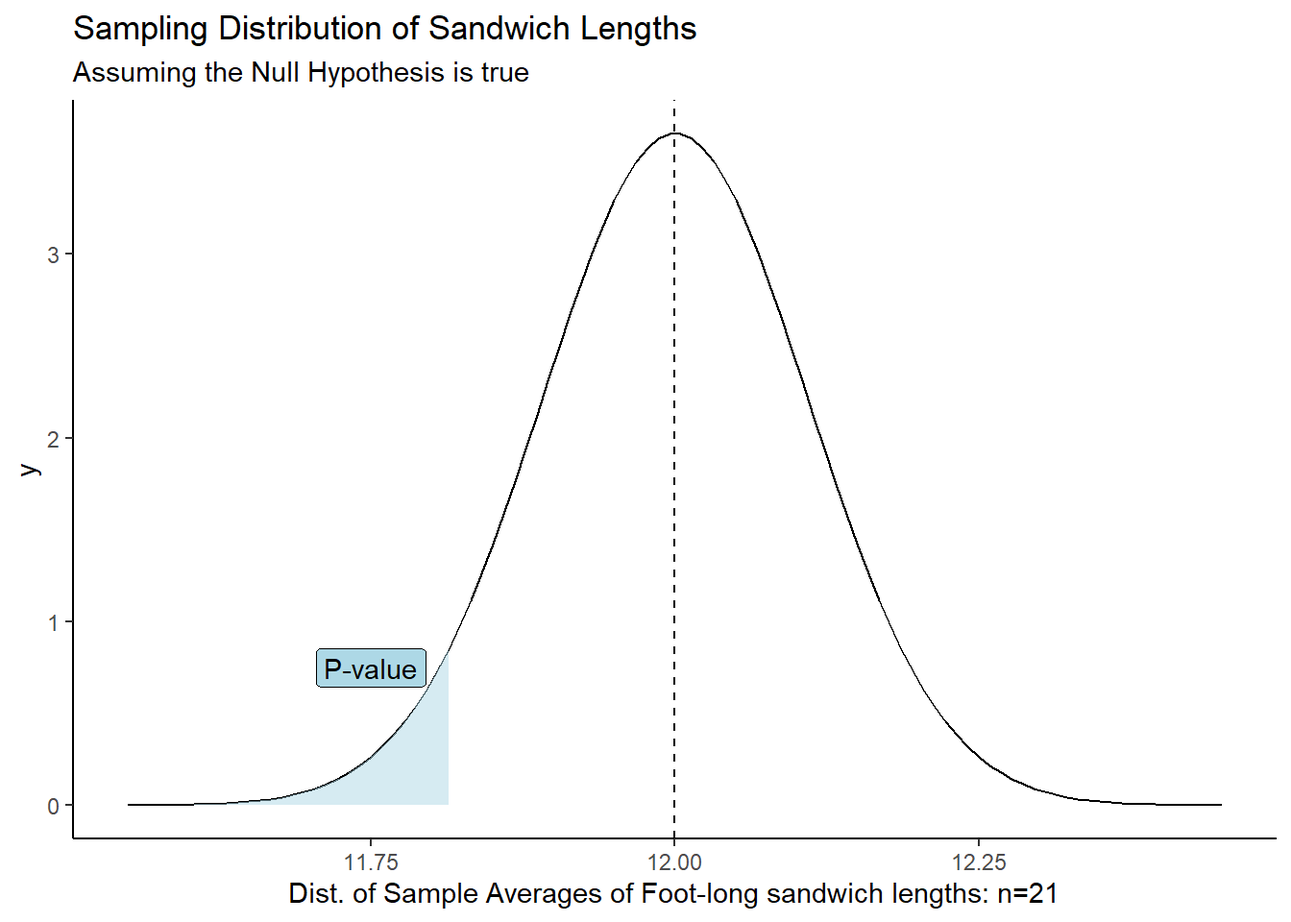
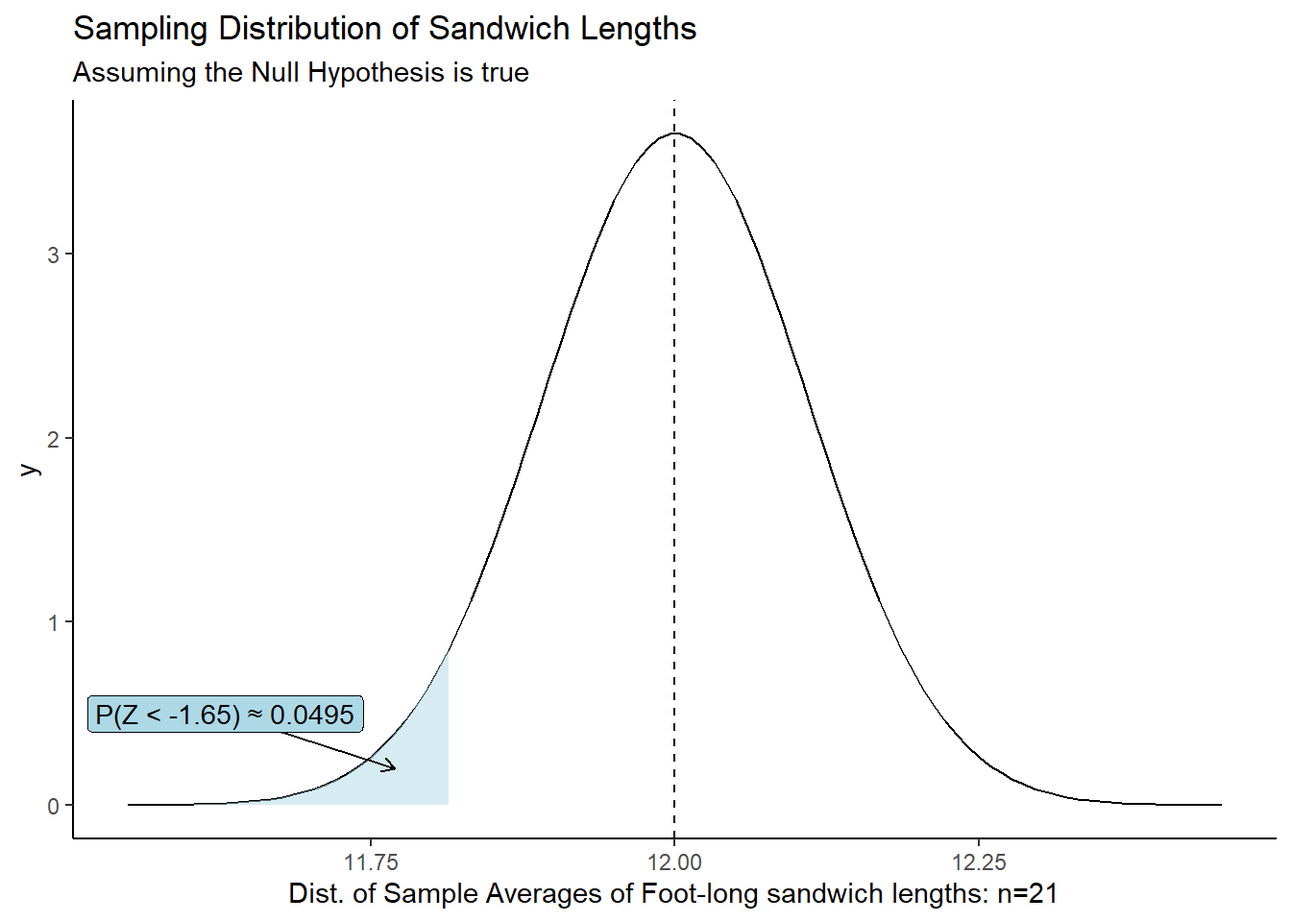
text edits

Changed region(s): [[0.0625, 0.6875, 0.3438, 0.8125]]

diff --git a/docs/8-Inquiry_Based_Learning/Introducing_Hypothesis_Tests.html b/docs/8-Inquiry_Based_Learning/Introducing_Hypothesis_Tests.html
@@ -559,7 +559,7 @@ window.Quarto = {
 <h2 class="anchored" data-anchor-id="the-null-hypothesis-h_0">The Null Hypothesis, <span class="math inline">\(H_0\)</span></h2>
 <p>The <strong>null hypothesis</strong> is the initial claim or assumption about a population parameter. It often represents the status quo or “no effect”.</p>
 <p>For example, we assume that the new medication has <em>no effect</em> until we find enough evidence to prove otherwise.</p>
-<p>We write the null hypothesis as, <span class="math inline">\(H_0\)</span>, and refer to it as “H-Naught” or “H-O”.</p>
+<p>We write the null hypothesis as ‘<span class="math inline">\(H_0\)</span>’, and refer to it as “H-Naught” or “H-O”.</p>
 <p>Many of the statistical tests we cover in this course follow the generic form:</p>
 <p><span class="math display">\[H_0: \text{There is no relationship between }X \text{ and }Y\]</span></p>
 </section>
@@ -568,7 +568,7 @@ window.Quarto = {
 <p>We typically engage in scientific inquiry because we do NOT believe the null hypothesis. For example, we believe that there IS an effect of a new medication.</p>
 <p>The “burden of proof” is on the researcher to prove the null hypothesis wrong. This means that it is the researcher’s responsibility to present enough evidence to contradict the null hypothesis.</p>
 <p>The counter-proposal for the null hypothesis is called the <strong>alternative hypothesis</strong>.</p>
-<p>We write the null hypothesis as, <span class="math inline">\(H_a\)</span>, and refer to it as “H-A”.<br>
+<p>We write the null hypothesis as ‘<span class="math inline">\(H_a\)</span>’, and refer to it as “H-A”.<br>
 The statistical tests we will cover in the rest of the semester follow the generic form:</p>
 <p><span class="math display">\[H_a: \text{There is a relationship between }X \text{ and }Y\]</span></p>
 </section>
@@ -582,7 +582,7 @@ The statistical tests we will cover in the rest of the semester follow the gener
 <p>If the null hypothesis is true, it would be very unlikely, though possible, to observe a scatter plot like the following, just by chance, because of sample-to-sample variation:</p>
 <p><img src="https://github.com/byuistats/Math221D_Course/raw/main/Images/Some_Relationship_Scatterplot.png" class="img-fluid"></p>
 <p><br></p>
-<p>If the null hypothesis is true, it would be ASTRONOMICALLY unlikely, though theoretically possible, to observe a relationship like the following just by chance because of sample-to-sample variation:</p>
+<p>If the null hypothesis is true, it would be ASTRONOMICALLY unlikely, though theoretically possible, to observe a relationship like the following just by chance, because of sample-to-sample variation:</p>
 <p><img src="https://github.com/byuistats/Math221D_Course/raw/main/Images/Strong_Relationship_Scatterplot.png" class="img-fluid"> <br></p>
 </section>
 </section>
@@ -602,13 +602,13 @@ The statistical tests we will cover in the rest of the semester follow the gener
 <iframe src="https://byuistats.github.io/Null_Hypothesis_Simulation_App/" width="700" height="500" style="border:none;">
 </iframe>
 <p>Statistical hypothesis testing is about calculating the <strong>probability</strong> of observing what we actually observed <strong>IF the null hypothesis were true</strong>. If that probability is very small, we can confidently reject the null hypothesis in favor of the alternative.</p>
-<p>Next, we will look at the process of calculating that probability.</p>
+<p>Next, we look at the process of calculating that probability.</p>
 </section>
 <section id="test-statistic" class="level1">
 <h1>Test Statistic</h1>
 <p>To calculate the probability of observing what we observed if there really was no relationship, we first calculate a test statistic.</p>
-<p>The exact formula for a test statistic depends on what type of analysis we are performing. But regardless of the type of analysis, test statistics follow a general pattern.</p>
-<p>A <strong>test statistic</strong> can be though of as a signal-to-noise ratio, where the signal is what we observed in our sample and the noise is the variability we would expect if the null hypothesis is true.</p>
+<p>The exact formula for a test statistic depends on what type of analysis is being performed. But regardless of the type of analysis, test statistics follow a general construct.</p>
+<p>A <strong>test statistic</strong> can be though of as a signal-to-noise ratio, where the signal is what we observed in our sample and the noise is the sample-to-sample variability we would expect if the null hypothesis is true.</p>
 <p><span class="math display">\[\text{Test Statistics}=\frac{\text{signal}}{\text{noise}}\]</span> Think about this as a fraction.</p>
 <div class="QuestionsHeading">
 Answer the following questions:
@@ -640,8 +640,8 @@ Show/Hide Solution
 </details>
 </div>
 <p><br></p>
-<p>As we get into specific analyses, we will look at a few of those formulas, but R will do all the calculations for us. For now, consider a test statistic as a signal-to-noise ratio. The larger it is, the stronger the evidence against the null hypothesis.</p>
-<p>But a test statistic is just a number and difficult to interpret in isolation. The calculation of the test statistics is an <em>intermediate step</em> to calculating a probability.</p>
+<p>As we get into specific analyses, we will look at a few of those formulas, and R will do all the calculations for us. For now, consider a test statistic as a signal-to-noise ratio. The larger it is, the stronger the evidence against the null hypothesis.</p>
+<p>But a test statistic is just a number and difficult to interpret in isolation. The calculation of the test statistics is an <em>intermediate step</em> to calculating the probability of observing what we observed if the null hypothesis were true.</p>
 </section>
 <section id="probability" class="level1">
 <h1>Probability</h1>
@@ -651,7 +651,7 @@ Show/Hide Solution
 </li>
 <li>Use the probability distribution of the test statistic to calculate the probability of observing something more extreme than what was observed in our sample <strong>if the null hypothesis were true</strong></li>
 </ol>
-<p><strong>DEFINITION</strong>: A <strong><span class="math inline">\(P\)</span>-value</strong> is the probability of obtaining a result at least as extreme as the observed data, assuming that the null hypothesis is true.</p>
+<p><strong>KEY DEFINITION</strong>: A <strong><span class="math inline">\(P\)</span>-value</strong> is the probability of obtaining a result at least as extreme as the observed data, assuming that the null hypothesis is true.</p>
 <p>A <em>small</em> p-value means that what we actually observed in our sample is unlikely to have happened just because of sample-to-sample variation.</p>
 <p>A <em>large</em> <span class="math inline">\(P\)</span>-value means that our observation is likely to have occurred if the null hypothesis were true. <strong>Our observations are consistent with sample-to-sample variation</strong>.</p>
 </section>
@@ -682,11 +682,11 @@ Show/Hide Solution
 <p>The <em>noise</em> is the sample-to-sample variation of the mean. Because of the properties of the sampling distribution for a mean, we know the sample-to-sample variation for <span class="math inline">\(\bar x\)</span> is: <span class="math inline">\(\sigma_{\bar x} = \frac{\sigma}{\sqrt{n}}\)</span>. This is the sample-to-sample variation for sample means.</p>
 <p>Suppose for now that sandwich-to-sandwich lengths vary by about 0.5 inches and that the distribution is normal. If we sampled 21 random sandwiches from shops in a region and got a sample mean length of 11.82 inches, we can calculate a test statistic as a signal-to-noise ratio:</p>
 <p><strong>SIGNAL</strong>: How far away is our sample mean from the hypothesized mean:</p>
-<p><span class="math display">\[11.82-12 = -0.18\]</span></p>
+<p><span class="math display">\[11.82-12 = -0.18\ \text{in}\]</span></p>
 <p><strong>NOISE</strong>: The expected variation of sample means assuming the null hypothesis is true. Based on the properties of the sampling distribution of <span class="math inline">\(\bar x\)</span>, this is:</p>
 <p><span class="math display">\[\sigma_\bar{x} = \frac{\sigma}{\sqrt{n}} = \frac{0.5}{\sqrt{21}}=0.109\]</span></p>
 <p><strong>Signal to Noise Ratio</strong>:<br>
-<span class="math display">\[\frac{-0.18}{0.109} = -1.651\]</span></p>
+<span class="math display">\[\frac{-0.18}{0.109} = -1.65\]</span></p>
 <p>You may recognize this as a z-score:</p>
 <p><span class="math display">\[
 z = \frac{\bar{x} - \mu_0}{\sigma / \sqrt{n}} = \frac{11.82 - 12}{0.5 / \sqrt{21}} = -1.649727

diff --git a/docs/8-Inquiry_Based_Learning/Statistical_Significance.html b/docs/8-Inquiry_Based_Learning/Statistical_Significance.html
@@ -497,8 +497,8 @@ window.Quarto = {
 <p>Statistical significance is a crucial concept for determining whether the results observed in a study are likely due to a real effect or simply due to chance. It’s a core component of hypothesis testing.</p>
 <section id="reviw-p-value" class="level2">
 <h2 class="anchored" data-anchor-id="reviw-p-value">Reviw: P-value</h2>
-<p>The <strong>p-value</strong> is the probability of observing results as extreme as or more extreme than the results obtained in your sample <em>assuming the null hypothesis is true</em>. In other words, it indicates how likely it is that you’d see the data you did if there was actually no effect present.</p>
-<p>A small p-value suggests strong evidence against the null hypothesis, while a large p-value suggests weak evidence.</p>
+<p>The <strong><span class="math inline">\(P\)</span>-value</strong> is the probability of observing results as extreme as or more extreme than the results obtained in your sample <em>assuming the null hypothesis is true</em>. In other words, it indicates how likely it is to see the data you did if there was actually no effect present.</p>
+<p>A small p-value suggests strong evidence against the null hypothesis, while a large p-value suggests the observed data are consistent with sample-to-sample variability.</p>
 </section>
 <section id="significance-level-alpha-alpha" class="level2">
 <h2 class="anchored" data-anchor-id="significance-level-alpha-alpha">Significance Level: Alpha (<span class="math inline">\(\alpha\)</span>)</h2>
@@ -515,11 +515,11 @@ window.Quarto = {
 </section>
 <section id="mistaking-randomness-for-signal" class="level2">
 <h2 class="anchored" data-anchor-id="mistaking-randomness-for-signal">Mistaking Randomness for Signal</h2>
-<p>We can never be 100% certain that the signal observed in our sample was not just noise. Randomization is used to design statistical experiments to avoid bias in our samples, but sometimes that randomness can lead to results that look significant.</p>
-<p>Consider a clinical trial looking at 5-year survival rates for a new cancer therapy with 3 different levels of the treatment. We randomly assign patients to each treatment group. Each individual will have a different likelihood of 5-year survival regardless of treatment.</p>
-<p>There is a chance that the hardiest patients all end up in one of the treatment groups making it look like that treatment is better, but it wasn’t the effect of the treatment.</p>
+<p>We can never be 100% certain that the signal observed in our sample was not just noise. Randomization is used to design statistical experiments to avoid bias in our samples, but sometimes that randomness can lead to results that look significant just by chance.</p>
+<p>Consider a clinical trial looking at 5-year survival rates for a new cancer therapy with 3 different levels of the treatment. We randomly assign patients to each treatment group.</p>
+<p>There is a chance that the hardiest patients all end up in the same treatment group making it look like that treatment is better, but it wasn’t because of the treatment.</p>
 <p>When we conclude that there is a relationship between X and Y, when what we observed was actually “noise”, we have committed a Type I error.</p>
-<p><strong>DEFINITION</strong>: <strong>Type I Error</strong>: Rejecting a TRUE null hypothesis.</p>
+<p><strong>DEFINITION</strong>: <strong>Type I Error</strong>: Rejecting a TRUE null hypothesis. In some contexts this is called a <strong>FALSE POSITIVE</strong></p>
 <p>Because <span class="math inline">\(\alpha\)</span> is our decision point for rejecting the null hypothesis, <span class="math inline">\(\alpha\)</span> is the probability of rejecting a TRUE null hypothesis, meaning <span class="math inline">\(\alpha\)</span> is the probability of a <strong>Type I</strong> error.</p>
 <p>Let’s see what an <span class="math inline">\(\alpha = 0.01\)</span> looks like in the case of against the foot-long sandwiches:</p>
 <div class="cell">
@@ -533,7 +533,7 @@ window.Quarto = {
 </div>
 <p>The red area, <span class="math inline">\(\alpha\)</span>, shows the probability of getting a sample mean in that tail <strong>when the null hypothesis is true</strong>. There’s always a chance we get such an extreme value and end up rejecting the null when it is true.</p>
 <p>If we make <span class="math inline">\(\alpha\)</span> too small, we will reject <span class="math inline">\(H_0\)</span> less often, thereby avoiding Type I errors. But that means that we are MORE likely to fail to reject the null hypothesis when we SHOULD have rejected it. This is a Type II error.</p>
-<p><strong>DEFINITION</strong>: <strong>Type II Error</strong>: Failing to Reject a FALSE null hypothesis.</p>
+<p><strong>DEFINITION</strong>: <strong>Type II Error</strong>: Failing to Reject a FALSE null hypothesis. In some contexts this is called a <strong>FALSE NEGATIVE</strong></p>
 <p>For example, if we failed to find evidence that the new cancer therapy worked but it really WAS effective, then we missed out on an a new, life-saving breakthrough.</p>
 </section>
 <section id="choosing-alpha-and-understanding-error-types" class="level2">
@@ -544,9 +544,10 @@ window.Quarto = {
 <p>A level of significance of <span class="math inline">\(\alpha=0.05\)</span> seems to strike a good balance between the probabilities of committing a Type I versus a Type II error. However, there may be instances where it will be important to choose a different value for <span class="math inline">\(\alpha\)</span>. The important thing is to choose <span class="math inline">\(\alpha\)</span> before you collect your data. Typical choices of <span class="math inline">\(\alpha\)</span> are <span class="math inline">\(0.05\)</span> (most common), <span class="math inline">\(0.1\)</span>, and <span class="math inline">\(0.01\)</span>.</p>
 <section id="visualizing-error" class="level4">
 <h4 class="anchored" data-anchor-id="visualizing-error">Visualizing Error</h4>
-<p>The below graph illustrates the relationship between Type I and Type II errors. The red distribution represents the Null Hypothesis, the sampling distribution of sample mean-lengths of foot-long sandwiches, assuming <span class="math inline">\(\mu_0=12\)</span>.</p>
-<p>The blue distribution represents the “TRUE” distribution with a mean, <span class="math inline">\(\mu_{truth}=11.2\)</span>. We never know this in the real world, but to illustrate, here is a situation where the <strong>true population mean</strong> is, in fact, less than 12.</p>
+<p>The graph below illustrates the relationship between Type I and Type II errors. The red distribution represents the Null Hypothesis, the sampling distribution of mean lengths of foot-long sandwiches, assuming <span class="math inline">\(\mu_0=12\)</span>.</p>
+<p>The blue distribution represents the “TRUE” distribution with a mean, <span class="math inline">\(\mu_{truth}=11.2\)</span>. We never know this in the real world, but to illustrate, here is a situation where the <strong>true population mean</strong> is, in fact, less than 12. The right decision would be to REJECT <span class="math inline">\(H_0\)</span>.</p>
 <p>If we set <span class="math inline">\(\alpha = 0.01\)</span> (red shaded area), we can see that any sample mean to the right of the cutoff would <strong>fail to reject</strong> the null hypothesis. This mistake would be a Type II error.</p>
+<p>While we don’t know what the “TRUE” distribution is, we can see the relationship between moving the cutoff based on <span class="math inline">\(\alpha\)</span> would do to the probability of failing to reject the null hypothesis even when it is FALSE.</p>
 <style>
   .responsive-iframe {
     width: 100%;
@@ -556,7 +557,6 @@ window.Quarto = {
 </style>
 <iframe src="https://byuistats.github.io/Alpha_Beta_Example_App/" class="responsive-iframe" scrolling="no">
 </iframe>
-<p>While we don’t know what the “TRUE” distribution is, we can see the relationship between moving the cutoff based on <span class="math inline">\(\alpha\)</span> would do to the probability of failing to reject the null hypothesis even when it is FALSE.</p>
 
 
 </section>

diff --git a/docs/8-Inquiry_Based_Learning/Assessing_Normality.html b/docs/8-Inquiry_Based_Learning/Assessing_Normality.html
@@ -527,26 +527,26 @@ window.Quarto = {
 
 <section id="assessing-normality" class="level1">
 <h1>Assessing Normality</h1>
-<p>In practice, we must confirm that the distribution of sample means is normally distributed. This is true when:</p>
+<p>In practice, we must often confirm that the distribution of sample means is normally distributed. This is true when:</p>
 <ol type="1">
 <li>The population is normally distributed</li>
 <li><span class="math inline">\(n &gt; 30\)</span> because of the Central Limit Theorem</li>
 </ol>
 <p>But how do you know if a population is normally distributed? In the real world, there is no teacher to tell you when to assume a population is normal.</p>
 <p>If our sample size is large enough, we don’t have to worry. We can trust the Central Limit Theorem.</p>
-<p>If our sample size is &lt; 30, we can assess the normality of our <em>sample</em> to decide if we can still trust output of our statistical conclusions.</p>
+<p>If <span class="math inline">\(n &lt; 30\)</span>, we can assess the normality of our <em>sample</em> to decide if we can still trust output of our statistical conclusions.</p>
 <p><a href="https://byuistats.github.io/Math221D_Course/Textbook/The_Normal_Distribution.html">Previously</a>, we’ve used histograms to help visualize the distribution of a sample. However, when sample sizes are small, even samples from a standard normal distribution can look skewed.</p>
 <p>All of the examples below are histograms of random samples from actual standard normal distributions:</p>
 <p><img src="../Images/small_sample_normal.png" class="img-fluid"></p>
 <section id="a-new-way-to-assess-normality" class="level3">
 <h3 class="anchored" data-anchor-id="a-new-way-to-assess-normality">A New Way to Assess Normality</h3>
-<p>Statisticians use something called a <code>QQPlot</code> which works better at assessing normality. QQPlots plot the sorted data of each point in a dataset with the theoretical percentile from a normal distribution. If the data and theoretical percentiles line up, then we can be reasonably sure the population is normally distributed.</p>
+<p>Statisticians use <code>QQPlots</code> which are better at assessing normality. QQPlots plot the ordered, observed percentiles for each data point in a dataset on the x-axis with the theoretical percentile from a normal distribution on the y-axis. If the observed percentiles and theoretical percentiles line up, then we can be reasonably sure the population is normally distributed.</p>
 <p>These are easier to use than to explain. We use the <code>car</code> library and the function <code>qqPlot()</code> to create a chart. (Note the Capital <code>P</code> in the middle.)</p>
 <p><strong>Key Point</strong>: If most of the data points line up in the shaded region, we can consider the population as normally distributed.</p>
 <p>Below are examples of QQPlots for a normal distribution and a right skewed distribution.</p>
 <p><img src="../Images/QQPlot_Normal.png" class="img-fluid"></p>
 <p><img src="../Images/QQPlot_Right_Skewed.png" class="img-fluid"></p>
-<p>These work much better for small sample sizes. Below are several examples of QQPlots for small sample sizes:</p>
+<p>These work much better for small sample sizes. Below are several examples of QQPlots for small sample sizes. They are the same samples as shown above in the histograms.</p>
 <p><img src="../Images/QQPlots_Normal.png" class="img-fluid"></p>
 <p>While not perfect, these are a vastly better tool to assess normality than a histogram.</p>
 </section>

diff --git a/docs/8-Inquiry_Based_Learning/Probability.html b/docs/8-Inquiry_Based_Learning/Probability.html
@@ -544,6 +544,7 @@ P(\text{not } E) = 1 - P(E)
 </section>
 <section id="practice" class="level2">
 <h2 class="anchored" data-anchor-id="practice">Practice</h2>
+<p>Use the probabilty rules above to answer the following questions.</p>
 <p><strong>QUESTION</strong>: In a political poll, 40% of respondents favor candidate A, 35% favor candidate B, and the rest are undecided. If one respondent is selected at random, what is the probability that they either favor candidate A or are undecided?<br>
 <strong>ANSWER</strong>:</p>
 <p><strong>QUESTION</strong>: In a survey of 288 BYU-I students, 144 said they prefer Redneck Mixers from Great Scott’s for their soda, 58 said they prefer Swig and 68 preferred Fixxology. The rest are heathens with questionable orthodoxy who have a distaste for non-alcoholic sparkling drinks. What is the probability of randomly selecting a student that hates delicious beverages?<br>
@@ -553,10 +554,10 @@ P(\text{not } E) = 1 - P(E)
 </section>
 <section id="continuous-probability-distributions" class="level1">
 <h1>Continuous Probability Distributions</h1>
-<p>In many situations, we can’t count the number of events. This typically occurs when we are measuring <em>quantitative</em> information such as heights. In practice, we do not have an infinite resolution for measuring heights. We might measure to the quarter inch, or the centimeter. While rounding makes things a little more like a discrete event, we understand that height is a continuous measurement and typically model it with a continuous probability distribution.</p>
+<p>In many situations, we can’t count the number of specific events. This typically occurs when we are collecting <em>quantitative</em> data such as heights. In practice, we do not have an infinite resolution for measuring heights. We might measure to the quarter inch, or the centimeter. While rounding makes things a little more like a discrete event, we understand that height is a continuous measurement and typically model it with a continuous probability distribution.</p>
 <p>Continuous probability distributions describe how probabilities are spread over all possible outcomes. Because there are technically an infinite number of possible outcomes on a continuous scale, the probability of any specific event is zero. Weird, right?</p>
 <p>In continuous cases, it doesn’t make sense to calculate the probability of exactly an event, <span class="math inline">\(E\)</span>. It makes more sense to think of probabilities in relation to specified values. For example, what’s the probability that a person is shorter then 72.1254 inches. Or what’s the probability of randomly selecting a person who makes MORE than $182,000 a year.</p>
-<p>For continuous probability distributions, the Calculus is required to calculate these quantities. Fortunately, you do <em>NOT</em> need to know any calculus for this class because computers will perform all the calculations for us. However, it is important to understand a few basic principles for continuous probability distributions.</p>
+<p>The Calculus is required to calculate probabilities for continuous probability distributions. Fortunately, you do <em>NOT</em> need to know any calculus for this class because computers will perform all the calculations for us. However, it is important to understand a few basic principles for continuous probability distributions.</p>
 <p>The principles are roughly the same as for discrete events.</p>
 <ul>
 <li><strong>1. Total Probability:</strong></li>

diff --git a/docs/8-Inquiry_Based_Learning/The_Normal_Distribution.html b/docs/8-Inquiry_Based_Learning/The_Normal_Distribution.html
@@ -577,7 +577,7 @@ window.Quarto = {
 <p><img src="../Images/L03_A06_R03.jpg" class="img-fluid"></p>
 <p>A normal density curve is uniquely determined by its mean, <span class="math inline">\(\mu\)</span>, and its standard deviation, <span class="math inline">\(\sigma\)</span>. So, if random variables follow a normal distribution with a known mean and standard deviation, then we can calculate any probabilities related to that variable by finding the area under the curve.</p>
 <p>When the mean of a normal distribution is 0 and its standard deviation is 1, we call it the <strong>standard normal distribution</strong>.</p>
-<p>We will return to this example later, and we will find the area shaded in blue.</p>
+<p>We will return to this example later and will find the area shaded in blue.</p>
 <section id="characteristics-of-the-normal-curve" class="level4">
 <h4 class="anchored" data-anchor-id="characteristics-of-the-normal-curve">Characteristics of the Normal Curve</h4>
 <section id="introduction-to-z-scores" class="level5">
@@ -681,8 +681,8 @@ Show/Hide Solution
 </section>
 <section id="normal-probability-computations" class="level2">
 <h2 class="anchored" data-anchor-id="normal-probability-computations">Normal Probability Computations</h2>
-<p>A <span class="math inline">\(z\)</span> score has what is called a <strong>Standard Normal Distribution</strong>. This is a special normal distribution with a mean, <span class="math inline">\(\mu\)</span>, equal to 0, and a standard deviation, <span class="math inline">\(\sigma\)</span>, equal to 1.</p>
-<p>This makes it possible to take any normal distribution and <em>standardize</em> it by subtracting out the population mean and dividing by the standard deviation. Whether we’re talking about heights, reaction times, big toe lengths, or nano-meters we can use the standard normal distribuition to calculate probabilities by first calculating a z-score.</p>
+<p>A <span class="math inline">\(z\)</span> score has what is called a <strong>Standard Normal Distribution</strong>. This is a special normal distribution with a mean, <span class="math inline">\(\mu=0\)</span>, and a standard deviation, <span class="math inline">\(\sigma=1\)</span>.</p>
+<p>This makes it possible to take any normal distribution and <em>standardize</em> it by subtracting out the population mean and dividing by the standard deviation. Whether we’re talking about heights, reaction times, big toe lengths, or nano-meters we can use the standard normal distribution to calculate probabilities by first calculating a z-score.</p>
 <section id="introduction-to-the-normal-probability-applet" class="level3">
 <h3 class="anchored" data-anchor-id="introduction-to-the-normal-probability-applet">Introduction to the Normal Probability Applet</h3>
 <p>The Normal Probability Applet is a visualization program offering statistics students insights and computations for the relationship between <span class="math inline">\(z\)</span>-scores and areas under the standard normal curve. You can find a link to this applet <a href="https://byuimath.com/apps/normprob.html">here</a>. This app is also compatible to use on your phone, iPad, and other mobile devices. The app is stored at . If you want a copy you can open from your desktop, just right click the link and save it to your computer.</p>

diff --git a/docs/8-Inquiry_Based_Learning/Sampling_Distributions_CLT_LLN.html b/docs/8-Inquiry_Based_Learning/Sampling_Distributions_CLT_LLN.html
@@ -556,9 +556,9 @@ window.Quarto = {
 <section id="review" class="level1">
 <h1>Review</h1>
 <p>A Population <strong>Parameter</strong> is a numerical summary (mean, median, standard deviation, proportion, etc.) based on the <strong>entire population</strong>.</p>
-<p>A Sample <strong>Statistic</strong> is any numerical summary (mean, median, standard deviation, proportion, etc.) based on a <strong>sample</strong> from a population.</p>
+<p>A Sample <strong>Statistic</strong> is a numerical summary (mean, median, standard deviation, proportion, etc.) based on a <strong>sample</strong> from a population.</p>
 <p>A <strong>Sample</strong> is a subset of the entire population.</p>
-<p><strong>Sample Size</strong> is the number of individuals in the sample.</p>
+<p><strong>Sample Size</strong> is the number of individuals or items in the sample.</p>
 <p><strong>Randomization</strong> is used in the collection of a sample to minimize bias and make sure our sample is representative of the population.</p>
 <p>We typically use <em>Greek Letters</em> when representing population parameters and <em>Latin Letters</em> when representing sample statistics.</p>
 <table class="caption-top table">
@@ -607,11 +607,11 @@ window.Quarto = {
 <h1>The Consequences of Randomization</h1>
 <p>Randomization guarantees that if someone else tries to recreate our study, they will get a different sample. Consequently, their <strong>sample statistics</strong> will not be the same as ours!</p>
 <p>While this should not be surprising, it does create a problem. Given sample-to-sample differences, how can we know when our conclusions are valid? We typically only have one sample to go on.</p>
-<p>The good news is that we can rely on the theory of sampling distributions to quantify the uncertainty about our sample.</p>
+<p>The good news is that we can rely on the theory of sampling distributions to quantify the sample-to-sample variability.</p>
 </section>
 <section id="sampling-distributions" class="level1">
 <h1>Sampling Distributions</h1>
-<p>Imagine you and 10 friends want to know about the percent of BYU-I students whose favorite soda is Dr.&nbsp;Pepper. Each of you could go and survey 50 people each and ask about their favorite soda. All 11 of you calculate the proportion of students who prefer Dr.&nbsp;Pepper.</p>
+<p>Imagine you and 10 friends want to know about the percent of BYU-I students whose favorite soda is Dr.&nbsp;Pepper. Each of you could go and survey 50 people each and ask about their favorite soda. All 11 of you calculate the proportion of students out of 50 who prefer Dr.&nbsp;Pepper.</p>
 <p>You’ll all get different results because you’ll be asking different sets of people. Now, instead of looking at your percents individually, summarize the collection of samples from all 11 of you using <code>favstats()</code> and a histogram:</p>
 <div class="cell">
 <div class="sourceCode cell-code" id="cb1"><pre class="sourceCode r code-with-copy"><code class="sourceCode r"><span id="cb1-1"><a href="#cb1-1" aria-hidden="true" tabindex="-1"></a><span class="fu">library</span>(mosaic)</span>
